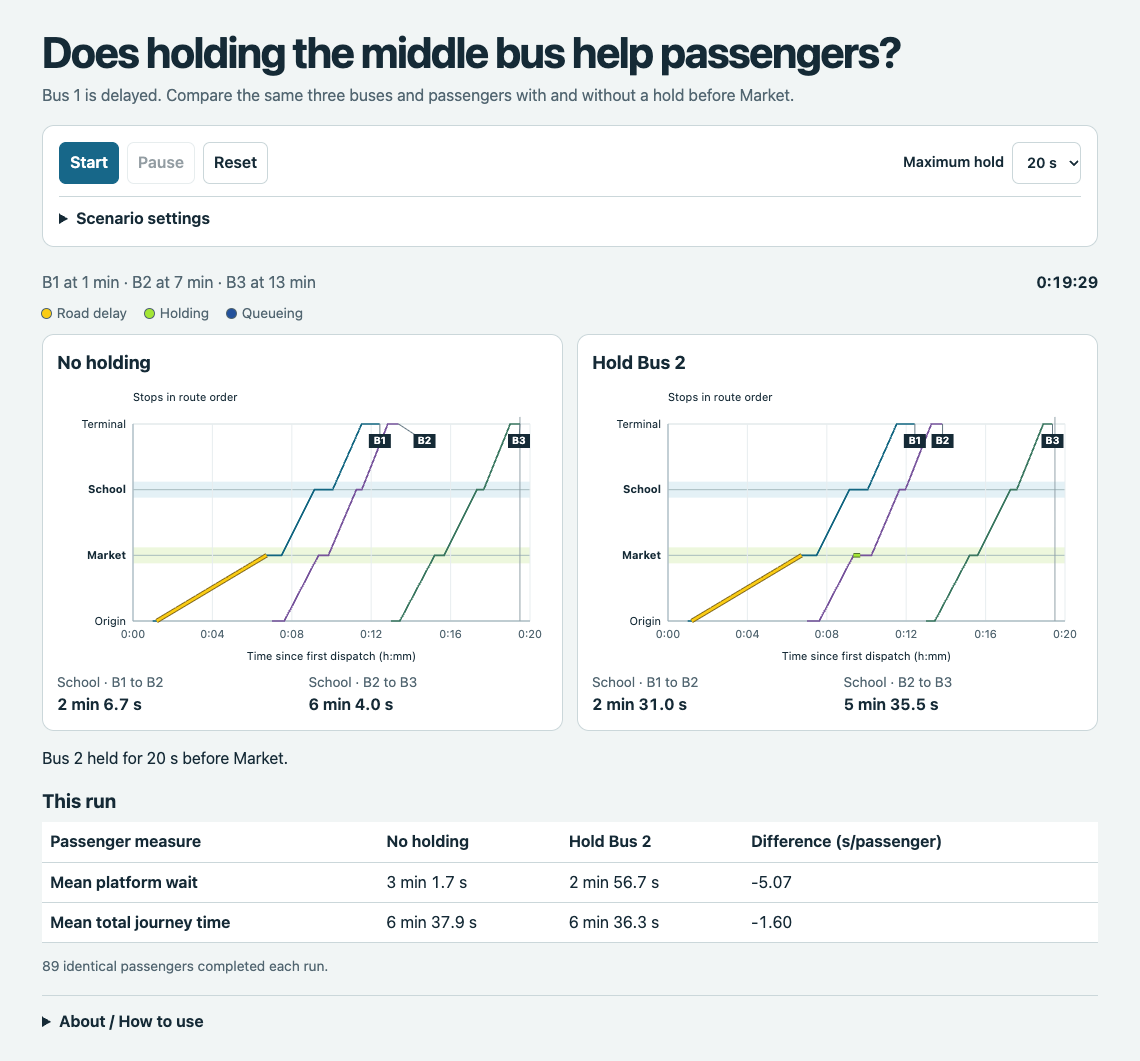
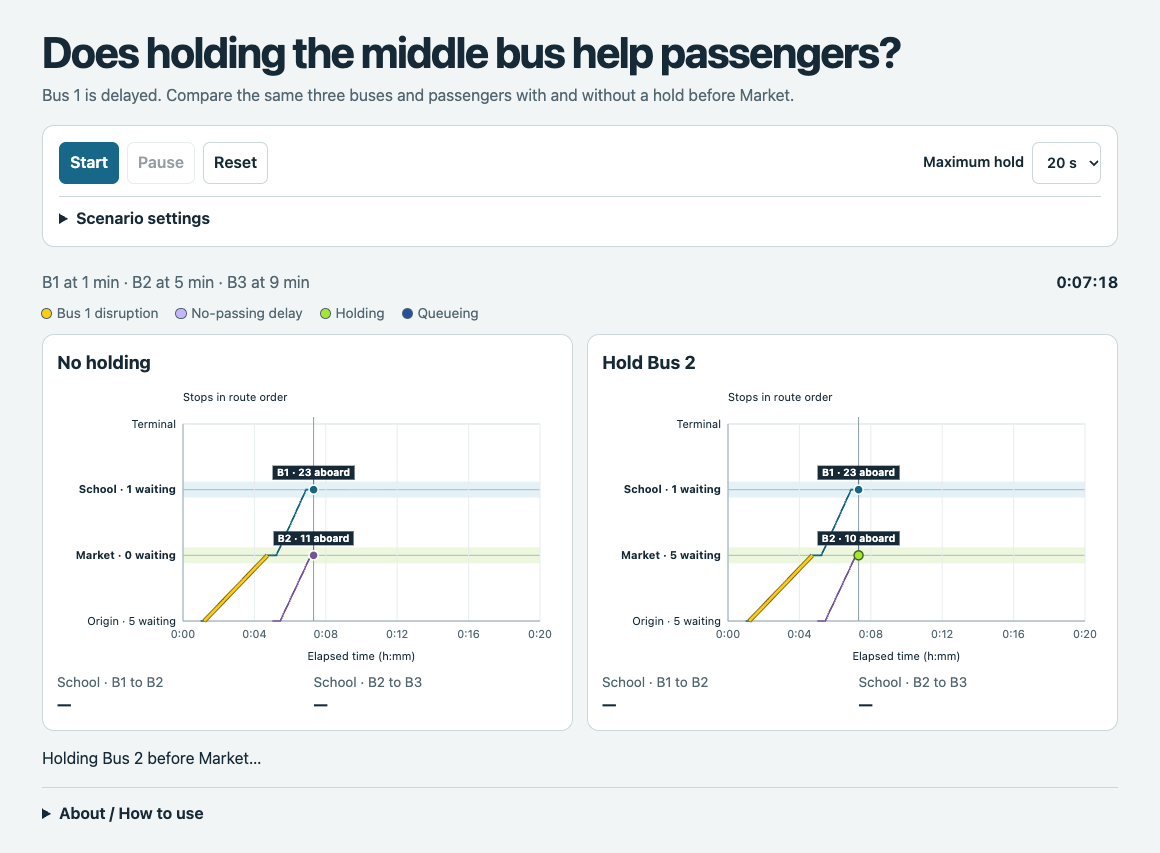
docs: refresh the four-minute scenario and remove obsolete figures

diff --git a/RESULTS.md b/RESULTS.md
@@ -1,20 +1,33 @@
-# When Bus 1 is delayed, does holding Bus 2 help?
+# Boarding, bunching and holding the middle bus
 
-## One replay
+## What happens after a 30-second delay?
 
-All 89 riders finish in both policies. A 20-second hold increases the B1–B2 School boarding gap from 126.74 to 151.02 seconds and decreases B2–B3 from 364.02 to 335.48 seconds. The School gaps measure boarding starts. Mean platform wait falls by 5.07 seconds and mean total journey time falls by 1.60 seconds per passenger.
+Holding is off in this comparison. The fixed-road, free-berth hand check gives a B1–B2 boarding gap of 240 s at Market and School. Delaying Bus 1 reduces each gap to 210 s.
 
-## Thirty matched pairs per scenario
+The following are means over 30 matched seeds. Gap changes are delayed minus no-delay.
 
-The table shows holding minus no holding in seconds per passenger, with paired 95% confidence intervals. Every run uses exactly three buses and a four-minute road delay on Bus 1.
+| Dwell model | Market boardings B1 / B2, before → after | Market dwell B1 / B2, before → after (s) | Market gap change | School gap change |
+|---|---|---|---:|---:|
+| Fixed | 8.07 / 11.10 → 9.63 / 9.53 | 20.00 / 20.00 → 20.00 / 20.00 | −30.00 s | −30.00 s |
+| Passenger-dependent | 7.60 / 11.50 → 9.03 / 10.07 | 22.80 / 33.08 → 25.86 / 30.02 | −30.00 s | −36.12 s |
 
-| Demand | Road-time CV | Platform wait | Total journey time |
+With passenger-dependent dwell, the late bus picks up more riders at Market and stops longer, while its follower boards fewer and leaves earlier relative to it. The disturbance grows between Market and School in **23 of 30** pairs and passes through unchanged in the other seven. With fixed dwell, it passes through unchanged in all 30. [Propagation records](data/disturbance-propagation.csv)
+
+## Default holding replay
+
+With the two-minute road shock, the 20-second hold widens the School B1–B2 gap from **123.10 to 143.10 s** and shortens B2–B3 from **255.33 to 235.33 s**. Both policies serve all **62** people. Mean platform wait **increases by 2.58 s**, and mean total journey time **increases by 5.81 s per passenger**.
+
+## Thirty holding pairs per scenario
+
+Differences are holding minus no holding in seconds per passenger, with paired 95% intervals. The main experiment uses the two-minute delay and the 20-second cap in every scenario.
+
+| Demand | Road CV | Total journey time | Platform wait |
 |---|---:|---:|---:|
-| Low | 0.15 | −7.42 [−11.23, −3.62] | −5.44 [−9.33, −1.54] |
-| Low | 0.45 | −4.43 [−7.75, −1.11] | −3.02 [−6.49, +0.45] |
-| Medium | 0.15 | −5.08 [−7.26, −2.90] | −3.51 [−5.85, −1.17] |
-| Medium | 0.45 | −1.15 [−2.74, +0.44] | +0.78 [−1.27, +2.82] |
-| High | 0.15 | −4.15 [−5.97, −2.33] | −5.00 [−7.00, −3.01] |
-| High | 0.45 | −3.51 [−5.39, −1.63] | −2.65 [−4.89, −0.41] |
+| Low | 0.15 | −0.05 [−2.24, +2.15] | −2.42 [−4.58, −0.26] |
+| Low | 0.45 | 0.00 [−3.03, +3.03] | −1.68 [−4.26, +0.91] |
+| Medium | 0.15 | +1.38 [−0.59, +3.36] | −0.71 [−2.61, +1.19] |
+| Medium | 0.45 | +1.37 [−0.41, +3.15] | −0.47 [−1.85, +0.92] |
+| High | 0.15 | +0.63 [−1.26, +2.51] | −0.43 [−1.72, +0.87] |
+| High | 0.45 | +0.67 [−0.87, +2.20] | −0.60 [−2.48, +1.27] |
 
-Journey time fell in four settings with intervals entirely below zero. The effect was uncertain at low and medium demand with higher road variability. Holding adds time to passengers already onboard Bus 2. The net outcome depends on whether improvements later in the trip outweigh that cost. The intervals reflect sampling variability under this assumed scenario. [Effect plots](figures/paired-policy-effects.png) · [Replication records](data/paired-replications.csv) · [Paired estimates and School gaps](data/policy-effects.csv)
+All six mean journey-time intervals cross zero. The low-demand, low-variability scenario shows shorter platform waits, while the evidence for total journey time remains uncertain. The dot plots show gains and losses within individual pairs. These estimates apply to the assumed four-stop route, dispatches, demand and delays. [Paired effects](figures/paired-policy-effects.png) · [Replication records](data/paired-replications.csv) · [Paired estimates](data/policy-effects.csv)

diff --git a/README.md b/README.md
@@ -6,11 +6,11 @@ Follow three buses along a four-stop corridor to see whether briefly holding Bus
 
 [![Open in Colab](https://colab.research.google.com/assets/colab-badge.svg)](https://colab.research.google.com/github/amri0faz31/bus-corridor-simulator/blob/main/notebook/bus-corridor-simulator.ipynb)
 
-![Two policy charts and the passenger comparison for the three-bus replay](figures/demo-middle-bus.png)
+![Live onboard and waiting passenger counts for the two policies](figures/demo-middle-bus.png)
 
 ## The question
 
-When Bus 1 is delayed on its first road link, does briefly holding Bus 2 before Market improve passenger journeys? The two runs share three dispatches, the same passengers and the same road-time draws. School boarding gaps show how spacing changes downstream.
+When Bus 1 runs late, how does passenger boarding change bus spacing, and does briefly holding Bus 2 improve passenger journeys? The two runs share three dispatches, the same passengers and the same road-time draws. School boarding gaps show how spacing changes downstream.
 
 ## Quick start
 
@@ -24,7 +24,7 @@ Press **Start** to run both charts on a shared clock. Change the **Maximum hold*
 
 ## Model and mathematics
 
-Three buses dispatch six minutes apart. A next-event calendar handles bus arrivals and releases, passenger arrivals and boarding starts. Stops have one FIFO boarding berth. Dwell is $5.264+2.136B+1.503A$ seconds for $B$ boardings and $A$ alightings. Only Bus 2 can be deliberately held before Market, for up to the chosen cap. [Theory](THEORY.md)
+Three buses dispatch at 1, 5 and 9 minutes. A two-minute first-link delay to Bus 1 is the default. A next-event calendar handles bus arrivals and releases, passenger arrivals and boarding starts. Stops have one FIFO boarding berth. Dwell is $5.264+2.136B+1.503A$ seconds for $B$ boardings and $A$ alightings. Only Bus 2 can be deliberately held before Market, for up to the chosen cap. [Theory](THEORY.md)
 
 ## Verification
 
@@ -40,7 +40,7 @@ The M/M/1 and fixed-headway benchmarks pass, alongside the hand traces and zero-
 
 ## Results and limitations
 
-The 20-second cap reduced average journey time in four of six demand and road-variability settings, based on paired intervals. The other two intervals crossed zero. The estimates apply to the assumed passenger demand, stop layout, bus schedule and first-link disruption. [Results](RESULTS.md) · [Experiment design](EXPERIMENT_PLAN.md)
+A 30-second shock reduced the Market gap by 30 seconds. Passenger-dependent dwell amplified that reduction to 36.12 seconds at School on average. The default 20-second hold increased journeys by 5.81 seconds per passenger. All six paired journey-time intervals crossed zero. The estimates apply to the assumed passenger demand, stop layout, bus schedule and first-link disruption. [Results](RESULTS.md) · [Experiment design](EXPERIMENT_PLAN.md)
 
 ## References, AI assistance and credits
 

diff --git a/THEORY.md b/THEORY.md
@@ -1,7 +1,11 @@
 # Model and mathematics
 
-The simulator advances to the next event on a priority queue. Releases at a timestamp precede arrivals and service starts. Each stop has a FIFO bus queue and one berth. Platform passengers can board at the start of service. Dwell in seconds is $d=5.264+2.136B+1.503A$ for boardings $B$ and alightings $A$. Passenger arrivals are Poisson and inter-arrival times use inverse-transform sampling. Free-running times are lognormal using the three published means in the [data notes](data/README.md). The no-passing rule imposes one second of minimum separation at link exits.
+The event engine advances to the next arrival, service start or release. Releases at a timestamp precede arrivals. Stops have one FIFO boarding berth. Passengers board and alight at service start. Dwell in seconds is $d=5.264+2.136B+1.503A$ for boardings $B$ and alightings $A$. Poisson passenger arrivals use exponential inter-arrivals sampled by inverse transform. Free-running times are lognormal with the three published means in the [data notes](data/README.md). The no-passing rule imposes one second of minimum separation at link exits.
 
-At Market, let $g$ be the elapsed seconds since the previous control release. Only Bus 2 can have a deliberate hold, given by $\\min(h_{\\max},\\max(0,360-g))$. Passengers already aboard experience the hold. Upstream queueing and berth queueing follow from the event model.
+At Market, let $g$ be the elapsed time in seconds since the previous control release and $H$ the configured target gap. Only Bus 2 can have a deliberate hold,
 
-Platform waiting is time from passenger arrival until boarding. Total journey time is time from passenger arrival until alighting. The two gaps at School are consecutive **boarding-start** differences. The paired confidence intervals use replication-level differences for common passenger and road inputs. [Results](RESULTS.md)
+$$h=\min(h_{\max},\max(0,H-g)).$$
+
+The scenario uses $H=240$ seconds, with a default cap of 20 seconds. Passengers already onboard experience the hold. Separate event times record the imposed disruption, no-passing delay, waiting for the controller and waiting for the berth.
+
+Platform wait runs from arrival until boarding. Total journey time runs from arrival until alighting. School gaps are consecutive boarding-start differences. To measure how a disturbance propagates, compare the delayed B1–B2 gap with the corresponding undelayed gap at Market and School using matched inputs. For policy effects, compute replication-level paired differences and 95% Student t intervals. [Results](RESULTS.md)

diff --git a/USER_GUIDE.md b/USER_GUIDE.md
@@ -1,11 +1,11 @@
 # User guide
 
-[Open the live demo](https://amri0faz31.github.io/bus-corridor-simulator/) or double-click `docs/index.html`. Buses 1, 2 and 3 dispatch at **1, 7 and 13 minutes**. Both panels use the same three buses, passengers and road travel draws.
+[Open the live demo](https://amri0faz31.github.io/bus-corridor-simulator/) or double-click `docs/index.html`. The two panels share the schedule, passengers, road draws and clock. B1, B2 and B3 start at **1, 5 and 9 minutes**.
 
-1. Keep the default 20-second cap and press **Start**. The complete replay takes about 37 seconds. Use **Pause** to inspect a point or **Reset** to start again.
-2. Watch for the event message when Bus 2 reaches the control point before Market. It reports the actual hold. Check the two School gaps as B2 and B3 start boarding.
-3. At the end, **This run** compares mean platform waiting and total journey time for the same 89 passengers. A negative difference favours holding.
+1. Press **Start**. Use **Pause** during the run or **Reset** to return to the start. The default replay takes about **35 seconds**.
+2. Read the passenger labels during playback. **B2 · 8 aboard** is the current onboard count. **Market · 5 waiting** is the current platform count. Yellow marks Bus 1’s imposed delay. Purple marks additional delay from the no-passing rule. Green marks holding and blue marks queueing.
+3. Compare both School boarding gaps as they appear. After both runs finish, use **This run** to compare passenger time. For the default replay, mean journey time increases by **5.81 s per passenger** with holding.
 
-**Scenario settings** contains Bus 1’s road delay and the passenger-demand level. Changing any model parameter resets both panels. The default settings are **20 s maximum hold**, **4 min road delay**, and **Medium** demand. Restoring all three restores the verified notebook case.
+![Default replay with live onboard and waiting passenger counts](figures/demo-middle-bus.png)
 
-Yellow marks a delay on the road, green marks deliberate holding and blue marks queueing. Market and School are shaded on both charts. Both panels share the elapsed clock. [Research results](RESULTS.md)
+**Scenario settings** controls Bus 1’s road delay and passenger demand. **Maximum hold** controls the cap for Bus 2. Restore **2 min**, **Medium** and **20 s** for the default notebook replay. Changing any setting resets both panels. [Research results](RESULTS.md)

diff --git a/EXPERIMENT_PLAN.md b/EXPERIMENT_PLAN.md
@@ -1,7 +1,7 @@
 # Experiment design
 
-Run exactly three buses on Origin → Market → School → Terminal. The scheduled starts are 1, 7 and 13 minutes. Delay Bus 1 by 240 seconds on the first link. Compare zero holding with a 20-second cap for Bus 2 at the upstream Market control point using a six-minute target release gap. Buses 1 and 3 have zero deliberate holding.
+Run three buses on Origin → Market → School → Terminal with one berth per stop. The assumed dispatches are 1, 5 and 9 minutes with a four-minute target gap. Arrivals stop at 9 minutes and every admitted rider completes the journey.
 
-Cross demand multipliers 0.60, 1.00 and 1.75 with road-time CVs 0.15 and 0.45. Run 30 independent matched pairs per scenario. Each pair shares a seeded passenger manifest and matrix of seeded road times. Passengers enter until the third dispatch at 780 seconds. Verify that each admitted passenger finishes under both policies.
+First disable holding. Compare zero disruption with a 30-second first-link shock to Bus 1. Start with free berths, fixed travel and fixed dwell as a hand check. For 30 seeded cohorts, compare the same two delay cases under fixed and passenger-dependent dwell. Report Market boardings and dwell for B1 and B2 and classify how the B1–B2 gap disturbance changes by School.
 
-Use mean passenger journey time as the principal result, with platform waiting, both School boarding gaps and mean Market berth waiting alongside it. For each measure compute the mean of the 30 paired holding-minus-baseline differences and its two-sided 95% Student t interval. The browser replays one reference from these modelling assumptions with its own fixed input seeds.
+Then compare no holding against a 20-second cap for Bus 2, with a two-minute Bus 1 delay. Cross demand multipliers 0.60, 1.00 and 1.75 with road-time CVs 0.15 and 0.45. Each of the six scenarios uses 30 independent pairs with identical input manifests and free-running road draws within each pair. Use total journey time as the primary outcome, with platform wait, School gaps and Market berth waiting alongside it. The browser exposes the delay, cap and demand and uses the same default inputs as Python.

diff --git a/VERIFICATION.md b/VERIFICATION.md
@@ -4,5 +4,6 @@
 - The single-stop M/M/1 simulation gives a mean berth queue wait of **60.22 s** against **60.00 s** analytically.
 - Independent passengers with fixed 80-second headways wait **39.97 s** on average against **40.00 s** analytically.
 - The Monte Carlo log–log error slope is **−0.454** against the reference **−0.500**. [Error-scaling figure](figures/monte-carlo-error-scaling.png)
-- With zero cap, both policy runs produce identical records and event traces. Every admitted passenger finishes. Journey time reconciles against its component delays.
+- With the controller enabled at zero cap, operational visits, rider records and non-control events match the uncontrolled run. Every admitted passenger finishes. Journey time reconciles against its component delays.
+- Browser tests check waiting, onboard and completed counts at the exact boarding and alighting boundaries.
 - Python and the browser match all three School boarding times per policy, mean platform wait and total journey time within **10⁻⁷ s**. The browser also checks whether the released Bus 2 was held for the intended amount.

diff --git a/data/README.md b/data/README.md
@@ -5,6 +5,7 @@ Herath et al. (2024), Table 4, supplies the first three Road 1 mean link times: 
 - `browser-reference.json` stores the shared seeded cohorts and road draws used by the browser, the default settings, and the Python reference metrics.
 - `paired-replications.csv` records 360 three-bus runs, one per policy and replication.
 - `policy-effects.csv` records holding-minus-baseline means and paired 95% confidence intervals.
+- `disturbance-propagation.csv` records fixed-dwell and passenger-dependent results with holding off, under matched delay and no-delay runs.
 - `monte-carlo-scaling.csv` records RMSE against the analytical fixed-headway mean.
 
 All outputs regenerate from the notebook. Timing columns are in seconds. Generated data accompany the repository's [MIT licence](../LICENSE).
